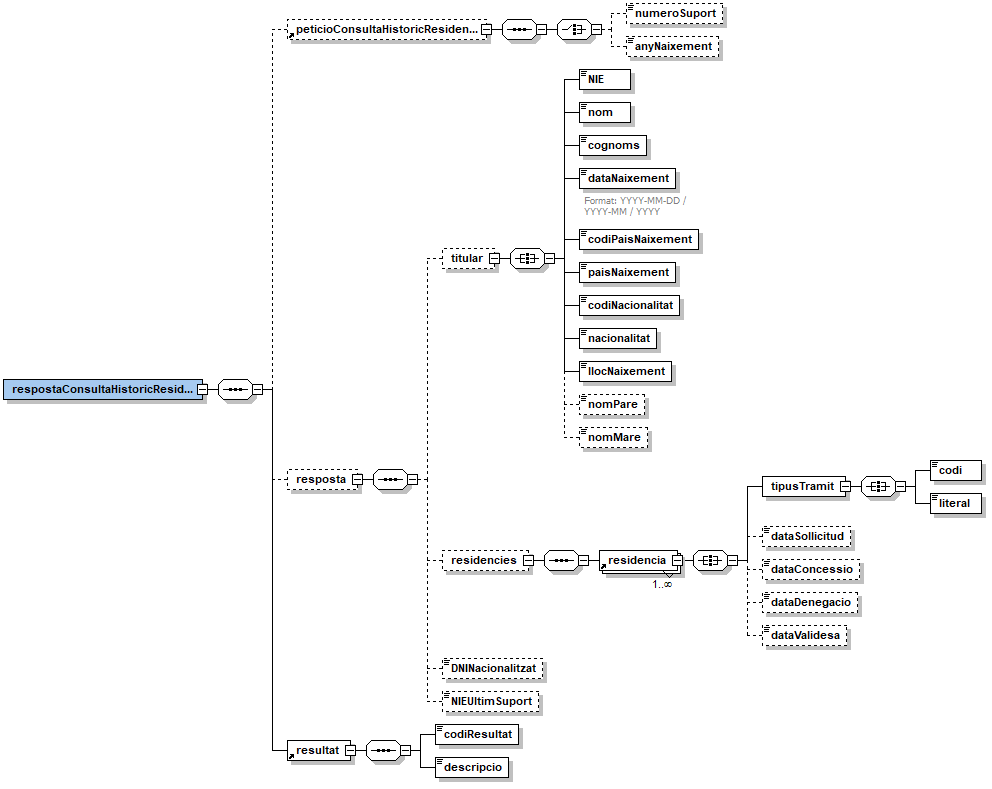
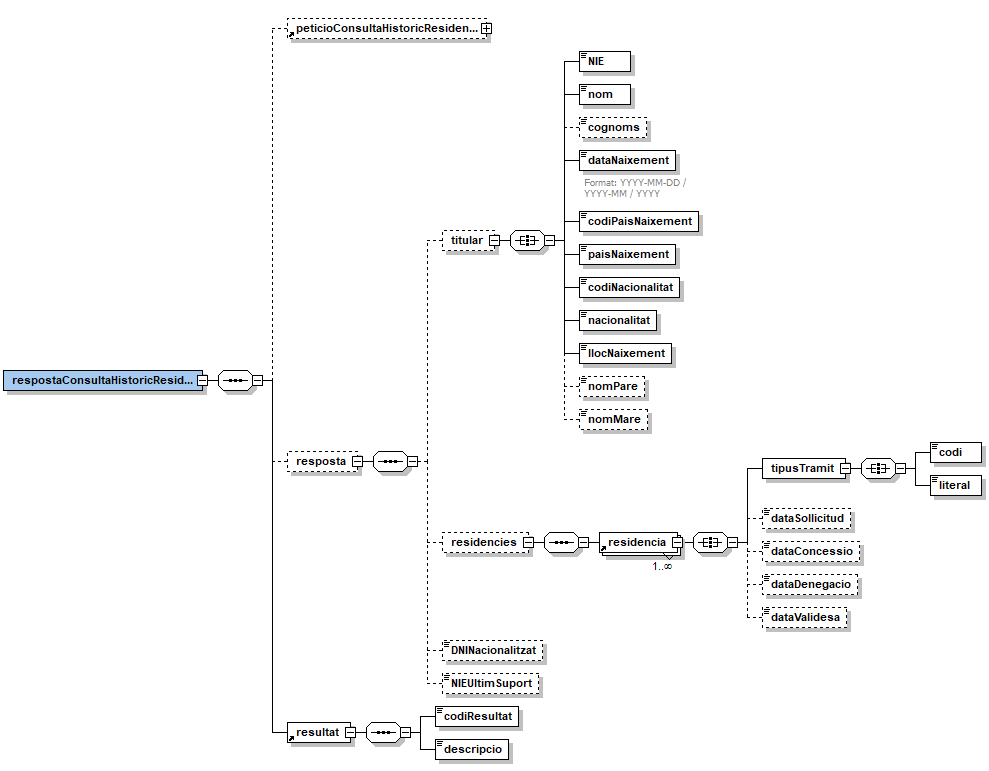
Element cognoms passa a ser opcional. - ST-23242
14/06/2024 Element cognoms passa a ser opcional.

diff --git a/README.md b/README.md
@@ -5,26 +5,6 @@
 
 # **Document d'integració del servei**
 
-
-**Control del document**
-
-**Informació general**
-
-| **Títol:** | Via Oberta – DGP (Residència) |
-| --- | --- |
-| **Creat per:** | Àrea de Tecnologia – Projectes |
-| **A revisar per:** | Àrea de Tecnologia – Suport Tècnic |
-| **A aprovar per:** | Àrea de Tecnologia – Suport Tècnic |
-| **Llista de distribució:** |
- 
-
-
-**Històric de revisions**
-
-| **Versió** | **Data** | **Autor** | **Comentaris** |
-| --- | --- | --- | --- |
-| V1.0 | 18/05/2022 | Roger Noguera i Arnau | Creació del document. |
-
 **Índex**
 
 - [1. Introducció](#1)
